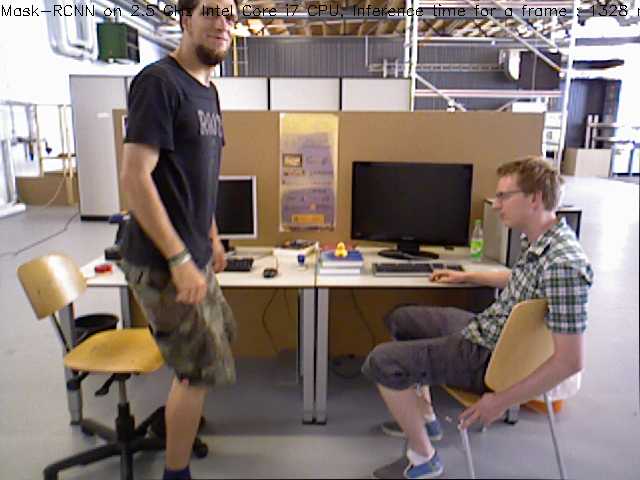
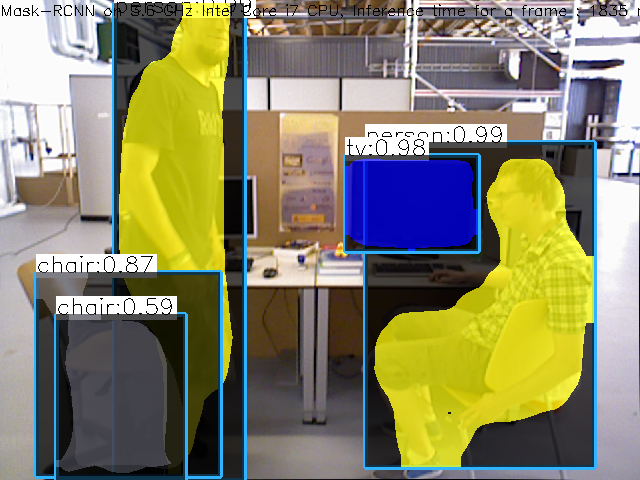
finish OpenCV mask-RCNN demo

diff --git a/Examples/MaskRCNN/mask_rcnn.cc b/Examples/MaskRCNN/mask_rcnn.cc
@@ -98,12 +98,13 @@ vector<string> classes;
 vector<Scalar> colors;
 
 // Draw the predicted bounding box
-void drawBox(Mat& frame, int classId, float conf, Rect box, Mat& objectMask);
+void drawBox(Mat& frame, int classId, float conf, Rect box);
+
+// Draw the mask into frame
+void drawMask(Mat& frame, int classId, Rect box, Mat& objectMask);
 
 // Postprocess the neural network's output for each frame
 void postprocess(Mat& frame, const vector<Mat>& outs);
-
-
 
 // For each frame, extract the bounding box and mask for each detected object
 void postprocess(Mat& frame, const vector<Mat>& outs)
@@ -145,14 +146,16 @@ void postprocess(Mat& frame, const vector<Mat>& outs)
             Mat objectMask(outMasks.size[2], outMasks.size[3], CV_32F, outMasks.ptr<float>(i, classId));
 
             // Draw bounding box, colorize and show the mask on the image
-            drawBox(frame, classId, score, box, objectMask);
+            drawBox(frame, classId, score, box);
 
+            // Draw mask
+            drawMask(frame, classId, box, objectMask);
         }
     }
 }
 
 // Draw the predicted bounding box, colorize and show the mask on the image
-void drawBox(Mat& frame, int classId, float conf, Rect box, Mat& objectMask)
+void drawBox(Mat& frame, int classId, float conf, Rect box)
 {
     //Draw a rectangle displaying the bounding box
     rectangle(frame, Point(box.x, box.y), Point(box.x + box.width, box.y + box.height), Scalar(255, 178, 50), 3);
@@ -171,35 +174,34 @@ void drawBox(Mat& frame, int classId, float conf, Rect box, Mat& objectMask)
     box.y = max(box.y, labelSize.height);
     rectangle(frame, Point(box.x, box.y - round(1.5*labelSize.height)), Point(box.x + round(1.5*labelSize.width), box.y + baseLine), Scalar(255, 255, 255), FILLED);
     putText(frame, label, Point(box.x, box.y), FONT_HERSHEY_SIMPLEX, 0.75, Scalar(0, 0, 0), 1);
+}
 
+void drawMask(Mat& frame, int classId, Rect box, Mat& objectMask) {
     Scalar color = colors[classId%colors.size()];
 
     // Resize the mask, threshold, color and apply it on the image
     resize(objectMask, objectMask, Size(box.width, box.height));
+    // threshold mask into binary 255/0 mask
     Mat mask = (objectMask > maskThreshold);
-    Mat coloredRoi = (0.3 * color + 0.7 * frame(box));
-    coloredRoi.convertTo(coloredRoi, CV_8UC3);
-
-    // Draw the contours on the image
-    vector<Mat> contours;
-    Mat hierarchy;
-    mask.convertTo(mask, CV_8U);
-    findContours(mask, contours, hierarchy, RETR_CCOMP, CHAIN_APPROX_SIMPLE);
-    drawContours(coloredRoi, contours, -1, color, 5, LINE_8, hierarchy, 100);
-    coloredRoi.copyTo(frame(box), mask);
-
+    // make colorful mask
+    Mat colorRoi = Mat(Size(box.width, box.height), frame.type(), color);
+    Mat colorMask;
+    colorRoi.copyTo(colorMask, mask);
+    // color the segmentation and apply to image
+    addWeighted(frame(box), 0.3, colorMask, 0.7, 0.0, frame(box));
 }
+
 
 int main(int argc, char *argv[])
 {
     // Load names of classes
-    string classesFile = ".mscoco_labels.names";
+    string classesFile = "./mscoco_labels.names";
     ifstream ifs(classesFile.c_str());
     string line;
     while (getline(ifs, line)) classes.push_back(line);
 
     // Load the colors
-    string colorsFile = ".colors.txt";
+    string colorsFile = "./colors.txt";
     ifstream colorFptr(colorsFile.c_str());
     while (getline(colorFptr, line))
     {
@@ -273,7 +275,7 @@ int main(int argc, char *argv[])
         vector<double> layersTimes;
         double freq = getTickFrequency() / 1000;
         double t = net.getPerfProfile(layersTimes) / freq;
-        string label = format("Mask-RCNN on 2.5 GHz Intel Core i7 CPU, Inference time for a frame : %0.0f ms", t);
+        string label = format("Mask-RCNN on 3.6 GHz Intel Core i7 CPU, Inference time for a frame : %0.0f ms", t);
         putText(frame, label, Point(0, 15), FONT_HERSHEY_SIMPLEX, 0.5, Scalar(0, 0, 0));
 
         // Write the frame with the detection boxes
